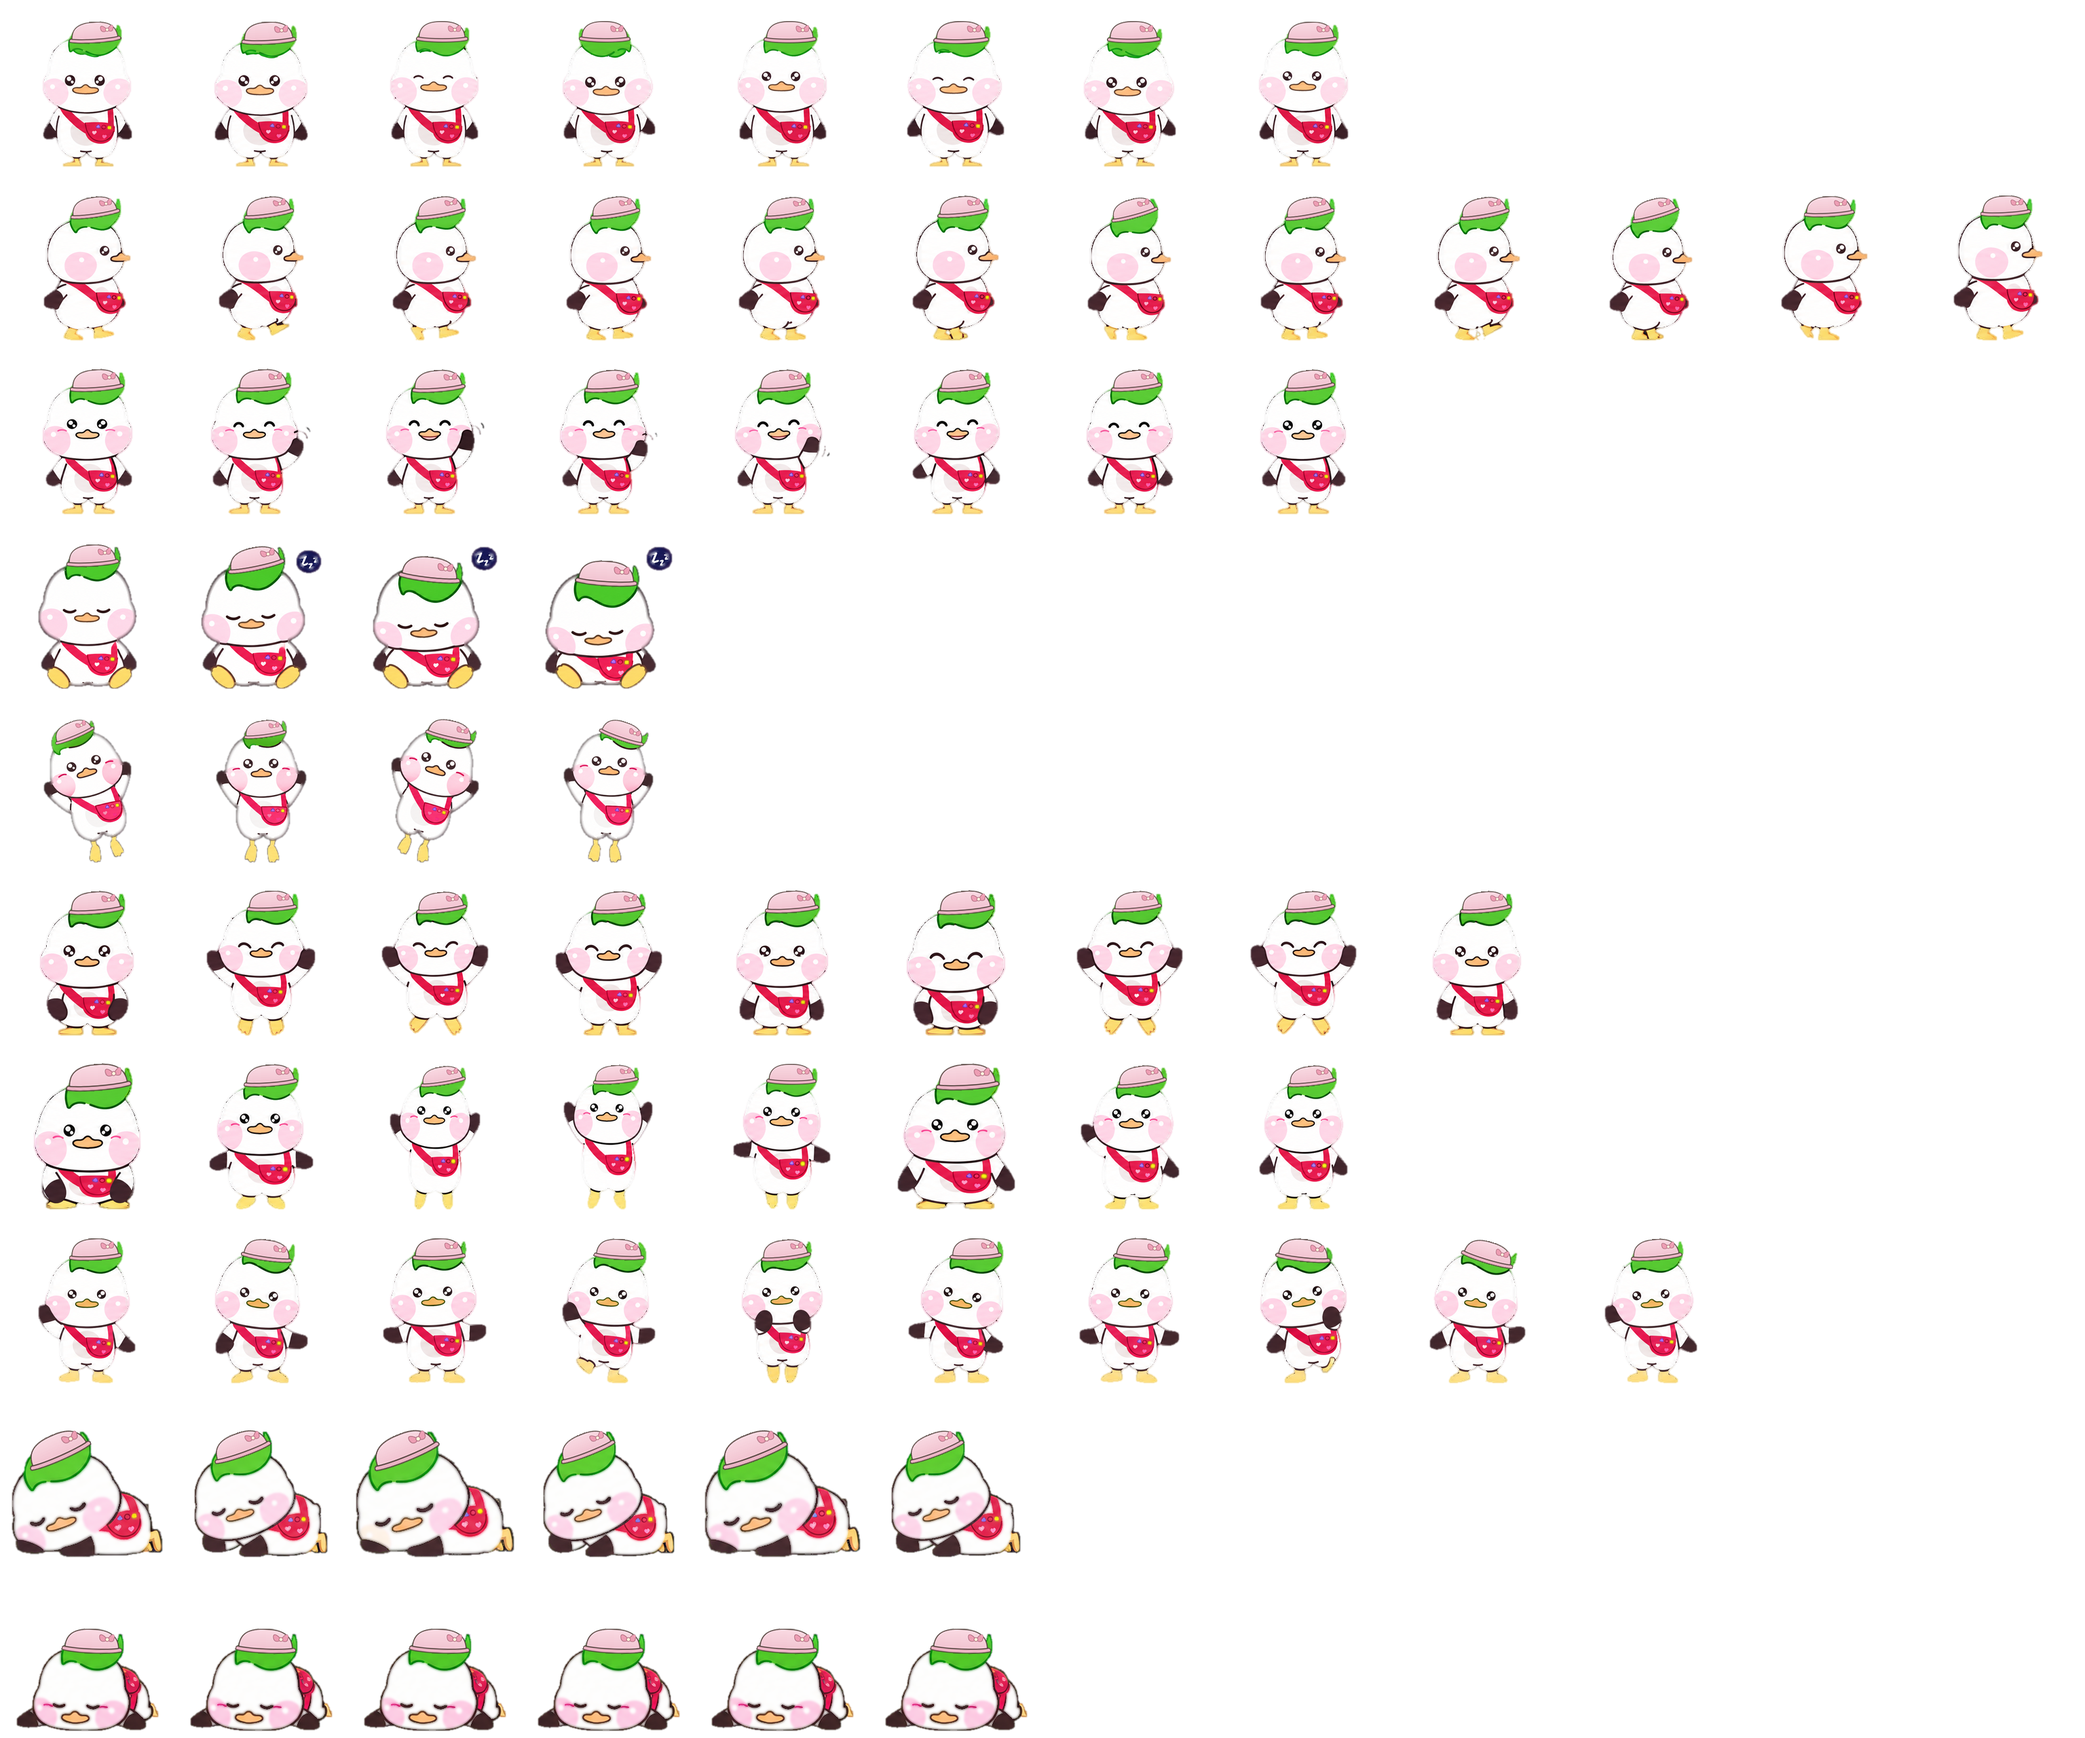
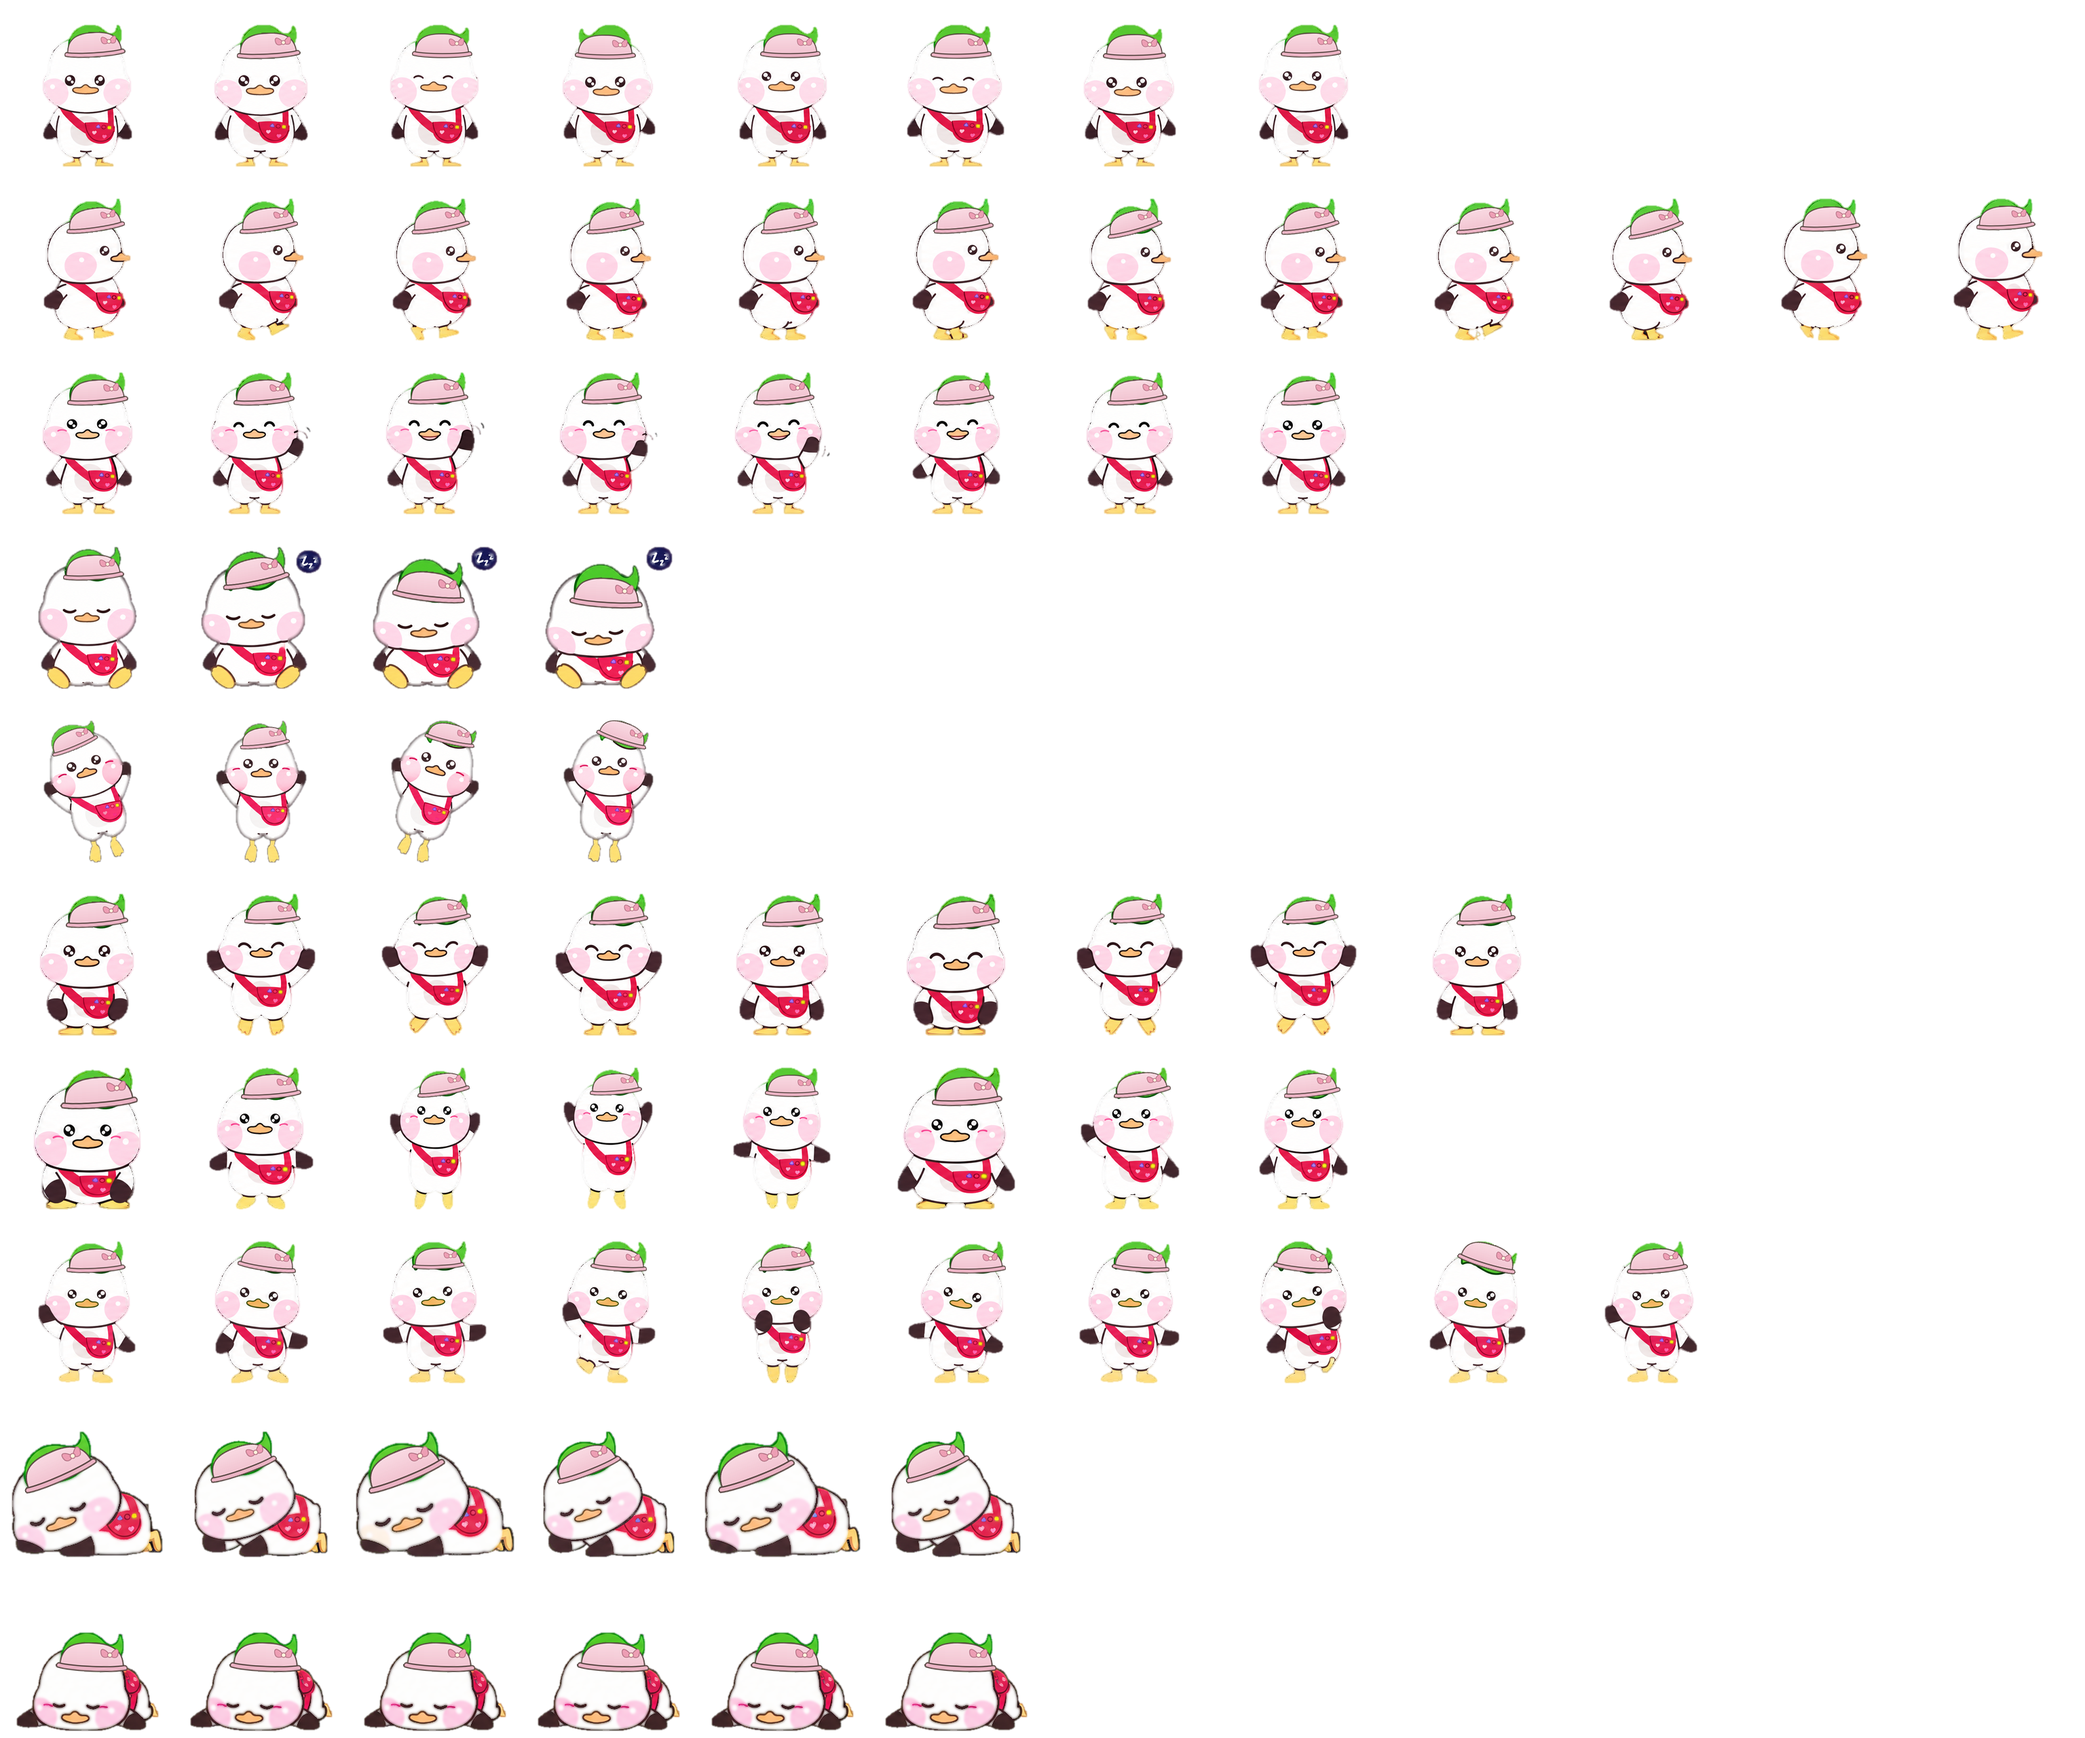
Seat wardrobe hats on the head crown
The three hats sat on top of the leaf, leaving the lower leaf poking out
beneath the brim so the hat looked perched above the head. Hats are now
scaled slightly wider than the leaf and placed so the brim rests on the
crown; only the leaf tip emerges above. Body outfits are unchanged.

diff --git a/assets/wardrobe_presets/source-v2/build.py b/assets/wardrobe_presets/source-v2/build.py
@@ -40,12 +40,14 @@ def hat(state,idx,name,framehash):
  im=Image.open(raw).convert('RGBA')
  leaf=data[state][idx]['leaf']['bbox']; left,top,right,bottom=leaf
  asset=Image.open(ROOT/'assets'/'wardrobe_presets'/(name+'_v2.png')).convert('RGBA')
- asset=asset.crop(asset.getbbox()); scale=min((right-left+1)*.98/asset.width,(right-left+1)*.62/asset.height)
+ # Seat the hat on the crown: wider than the leaf and low enough that the
+ # brim rests on the head, so only the leaf tip emerges above the hat.
+ asset=asset.crop(asset.getbbox()); scale=min((right-left+1)*1.15/asset.width,(bottom-top+1)*.80/asset.height)
  asset=asset.resize((max(1,round(asset.width*scale)),max(1,round(asset.height*scale))),Image.Resampling.LANCZOS)
  angle=anglemap.get(framehash,0)
  if isinstance(angle,dict): angle=angle.get('angle_degrees',0)
  asset=asset.rotate(-float(angle),resample=Image.Resampling.BICUBIC,expand=True)
- x=round((left+right-asset.width)/2); y=round(top-asset.height*.20)
+ x=round((left+right-asset.width)/2); y=round(bottom+asset.height*.12-asset.height)
  im.alpha_composite(asset,(max(0,x),max(0,y)))
  return im
 

diff --git a/docs/WARDROBE_CURATION.md b/docs/WARDROBE_CURATION.md
@@ -6,7 +6,7 @@
 
 정면 옷 이미지를 모든 자세에 같은 방향으로 붙이면 옆모습이나 누운 모습에 맞지 않고, 얼굴·날개·가방의 앞뒤 관계가 어긋날 수 있습니다. 프레임 개수와 파일 형식이 올바르더라도 착용 모습이 자연스럽다는 뜻은 아닙니다. 서기, 걷기, 끌려가기, 앉아 자기, 누워 자기, 엎드려 자기, 고민과 좌우 반전을 살펴보고, 움직임 전환 시 위치가 튀거나 잘리는지도 확인합니다.
 
-현재 누워 있거나 엎드린 자세에서는 목도리가 머리 아래에 가려지고 가디건과 앞치마는 등 일부만 보입니다. 걷기 측면의 모자는 별도 측면 그림이 아니라 같은 모자를 자세에 맞춰 변형한 것입니다.
+현재 누워 있거나 엎드린 자세에서는 목도리가 머리 아래에 가려지고 가디건과 앞치마는 등 일부만 보입니다. 모자 3종은 잎 위에 얹히지 않고 정수리에 앉도록 잎보다 조금 넓게 배치하며, 잎 끝만 모자 위로 나옵니다. 걷기 측면의 모자는 별도 측면 그림이 아니라 같은 모자를 자세에 맞춰 변형한 것입니다.
 
 기본 션과 픽셀이 다른 사용자가 가져온 외형에는 기존의 동적 의상 표시 방식을 유지합니다. 가져온 외형은 자세와 색이 다를 수 있어 기본 션과 똑같이 맞는다고 보장할 수 없습니다. 기존 외형 파일과 사용자 설정을 덮어쓰지 않으며, **기본 모습**과 **기본 외형**으로 각각 되돌릴 수 있습니다.
 
